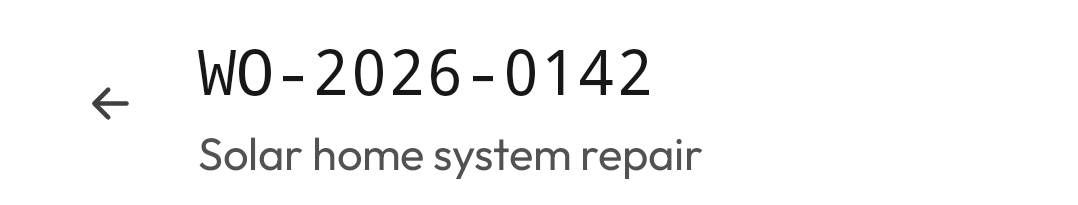
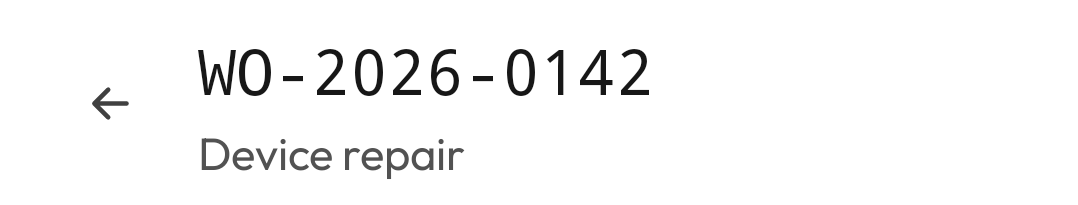
Fix start-aligned tab indicator, key-value rows in intrinsic layouts and select-field chevron in RTL
The new color fields on JengaIconButtonColors, JengaChipColors, JengaSegmentedControlColors and JengaTabsColors get defaults, and JengaDropdownMenu drops its width parameter in favour of the modifier.

Changed region(s): [[0.1837, 0.6732, 0.6735, 0.878]]

diff --git a/jenga/src/commonMain/kotlin/io/github/joelkanyi/jenga/component/list/JengaKeyValueRow.kt b/jenga/src/commonMain/kotlin/io/github/joelkanyi/jenga/component/list/JengaKeyValueRow.kt
@@ -2,19 +2,19 @@ package io.github.joelkanyi.jenga.component.list
 
 import androidx.compose.foundation.clickable
 import androidx.compose.foundation.layout.Arrangement
-import androidx.compose.foundation.layout.BoxWithConstraints
+import androidx.compose.foundation.layout.Box
 import androidx.compose.foundation.layout.PaddingValues
 import androidx.compose.foundation.layout.Row
 import androidx.compose.foundation.layout.defaultMinSize
 import androidx.compose.foundation.layout.fillMaxWidth
 import androidx.compose.foundation.layout.padding
-import androidx.compose.foundation.layout.widthIn
 import androidx.compose.runtime.Composable
 import androidx.compose.runtime.CompositionLocalProvider
 import androidx.compose.runtime.Immutable
 import androidx.compose.ui.Alignment
 import androidx.compose.ui.Modifier
 import androidx.compose.ui.graphics.Color
+import androidx.compose.ui.layout.layout
 import androidx.compose.ui.semantics.Role
 import androidx.compose.ui.text.TextStyle
 import androidx.compose.ui.text.font.FontWeight
@@ -135,7 +135,7 @@ public fun JengaKeyValueRow(
     val bold = TextStyle(fontWeight = FontWeight.Bold)
     val labelStyle = JengaTheme.typography.bodyMedium.let { if (isTotal) it.merge(bold) else it }
     val rowMinHeight = if (onClick != null) maxOf(minHeight, JengaTheme.sizing.minTouchTarget) else minHeight
-    BoxWithConstraints(
+    Box(
         modifier = modifier
             .fillMaxWidth()
             .then(if (onClick != null) Modifier.clickable(role = Role.Button, onClick = onClick) else Modifier)
@@ -143,7 +143,6 @@ public fun JengaKeyValueRow(
             .padding(contentPadding),
         contentAlignment = Alignment.CenterStart,
     ) {
-        val valueMaxWidth = maxWidth * valueMaxWidthFraction
         Row(
             modifier = Modifier.fillMaxWidth(),
             verticalAlignment = Alignment.Top,
@@ -157,7 +156,11 @@ public fun JengaKeyValueRow(
             )
             JengaText(
                 text = value,
-                modifier = Modifier.widthIn(max = valueMaxWidth),
+                modifier = Modifier.layout { measurable, constraints ->
+                    val cap = (constraints.maxWidth * valueMaxWidthFraction).toInt()
+                    val placeable = measurable.measure(constraints.copy(maxWidth = cap.coerceAtLeast(constraints.minWidth)))
+                    layout(placeable.width, placeable.height) { placeable.place(0, 0) }
+                },
                 style = if (isTotal) valueStyle.merge(bold) else valueStyle,
                 color = colors.value,
                 textAlign = TextAlign.End,

diff --git a/jenga/src/commonMain/kotlin/io/github/joelkanyi/jenga/component/tabs/JengaTabs.kt b/jenga/src/commonMain/kotlin/io/github/joelkanyi/jenga/component/tabs/JengaTabs.kt
@@ -48,7 +48,7 @@ public class JengaTabsColors(
     public val unselectedContent: Color,
     public val indicator: Color,
     public val divider: Color,
-    public val dot: Color,
+    public val dot: Color = indicator,
 ) {
     public fun copy(
         selectedContent: Color = this.selectedContent,
@@ -149,11 +149,20 @@ public fun JengaTabs(
         ) {
             tabs.forEachIndexed { index, title ->
                 val selected = index == selectedIndex
+                val indicator = when {
+                    selected -> colors.indicator
+                    fill -> colors.divider
+                    else -> Color.Transparent
+                }
                 Box(
                     modifier = Modifier
                         .then(if (fill) Modifier.weight(1f) else Modifier)
                         .selectable(selected = selected, role = Role.Tab, onClick = { onSelect(index) })
-                        .defaultMinSize(minHeight = minHeight),
+                        .defaultMinSize(minHeight = minHeight)
+                        .drawBehind {
+                            val thickness = JengaTabsDefaults.IndicatorThickness.toPx()
+                            drawRect(indicator, Offset(0f, size.height - thickness), Size(size.width, thickness))
+                        },
                     contentAlignment = Alignment.Center,
                 ) {
                     Row(
@@ -181,18 +190,6 @@ public fun JengaTabs(
                             )
                         }
                     }
-                    val indicator = when {
-                        selected -> colors.indicator
-                        fill -> colors.divider
-                        else -> Color.Transparent
-                    }
-                    Box(
-                        modifier = Modifier
-                            .align(Alignment.BottomCenter)
-                            .fillMaxWidth()
-                            .height(JengaTabsDefaults.IndicatorThickness)
-                            .background(indicator),
-                    )
                 }
             }
         }

diff --git a/jenga/src/commonMain/kotlin/io/github/joelkanyi/jenga/component/menu/JengaDropdownMenu.kt b/jenga/src/commonMain/kotlin/io/github/joelkanyi/jenga/component/menu/JengaDropdownMenu.kt
@@ -10,7 +10,6 @@ import androidx.compose.foundation.layout.Row
 import androidx.compose.foundation.layout.defaultMinSize
 import androidx.compose.foundation.layout.fillMaxWidth
 import androidx.compose.foundation.layout.padding
-import androidx.compose.foundation.layout.width
 import androidx.compose.material3.DropdownMenu
 import androidx.compose.material3.MenuDefaults
 import androidx.compose.runtime.Composable
@@ -112,7 +111,6 @@ public object JengaDropdownMenuDefaults {
  * @param onDismissRequest called when the menu should close (outside tap / back).
  * @param modifier the [Modifier] for the menu surface.
  * @param offset offset from the anchor.
- * @param width fixed menu width; unspecified sizes the menu to its items.
  * @param shape the menu shape.
  * @param border optional outline around the menu.
  * @param shadowElevation the menu shadow elevation.
@@ -124,7 +122,6 @@ public fun JengaDropdownMenu(
     onDismissRequest: () -> Unit,
     modifier: Modifier = Modifier,
     offset: DpOffset = DpOffset(0.dp, 0.dp),
-    width: Dp = Dp.Unspecified,
     shape: Shape = JengaDropdownMenuDefaults.shape,
     border: BorderStroke? = null,
     shadowElevation: Dp = JengaDropdownMenuDefaults.ShadowElevation,
@@ -133,7 +130,7 @@ public fun JengaDropdownMenu(
     DropdownMenu(
         expanded = expanded,
         onDismissRequest = onDismissRequest,
-        modifier = if (width != Dp.Unspecified) modifier.width(width) else modifier,
+        modifier = modifier,
         offset = offset,
         shape = shape,
         containerColor = JengaTheme.colors.surface,

diff --git a/jenga/src/commonMain/kotlin/io/github/joelkanyi/jenga/component/textfield/JengaSelectField.kt b/jenga/src/commonMain/kotlin/io/github/joelkanyi/jenga/component/textfield/JengaSelectField.kt
@@ -16,7 +16,6 @@ import androidx.compose.runtime.CompositionLocalProvider
 import androidx.compose.ui.Alignment
 import androidx.compose.ui.Modifier
 import androidx.compose.ui.draw.clip
-import androidx.compose.ui.draw.rotate
 import androidx.compose.ui.graphics.Shape
 import androidx.compose.ui.semantics.Role
 import androidx.compose.ui.text.TextStyle
@@ -24,6 +23,7 @@ import androidx.compose.ui.text.style.TextOverflow
 import androidx.compose.ui.unit.Dp
 import androidx.compose.ui.unit.dp
 import io.github.joelkanyi.jenga.component.icon.JengaIcon
+import io.github.joelkanyi.jenga.component.icon.JengaIcons
 import io.github.joelkanyi.jenga.component.text.JengaText
 import io.github.joelkanyi.jenga.theme.JengaTheme
 import io.github.joelkanyi.jenga.theme.LocalJengaContentColor
@@ -64,7 +64,7 @@ public fun JengaSelectField(
     enabled: Boolean = true,
     leadingIcon: (@Composable () -> Unit)? = null,
     trailingIcon: @Composable () -> Unit = {
-        JengaIcon(JengaTheme.icons.chevron, contentDescription = null, modifier = Modifier.rotate(90f))
+        JengaIcon(JengaIcons.ChevronDown, contentDescription = null)
     },
     shape: Shape = JengaTextFieldDefaults.shape,
     colors: JengaTextFieldColors = JengaTextFieldDefaults.colors(),

diff --git a/jenga/src/androidMain/kotlin/io/github/joelkanyi/jenga/component/scaffold/JengaTopAppBarPreviews.kt b/jenga/src/androidMain/kotlin/io/github/joelkanyi/jenga/component/scaffold/JengaTopAppBarPreviews.kt
@@ -33,7 +33,7 @@ internal fun JengaTopAppBarSlotPreview() {
             title = {
                 Column {
                     JengaText("WO-2026-0142", style = JengaTheme.typography.mono)
-                    JengaText("Solar home system repair", style = JengaTheme.typography.caption, color = JengaTheme.colors.textMuted)
+                    JengaText("Device repair", style = JengaTheme.typography.caption, color = JengaTheme.colors.textMuted)
                 }
             },
             navigationIcon = {

diff --git a/jenga/src/commonMain/kotlin/io/github/joelkanyi/jenga/component/tabs/JengaSegmentedControl.kt b/jenga/src/commonMain/kotlin/io/github/joelkanyi/jenga/component/tabs/JengaSegmentedControl.kt
@@ -33,7 +33,7 @@ public class JengaSegmentedControlColors(
     public val selectedSegment: Color,
     public val selectedContent: Color,
     public val unselectedContent: Color,
-    public val disabledContent: Color,
+    public val disabledContent: Color = unselectedContent.copy(alpha = 0.38f),
 ) {
     public fun copy(
         track: Color = this.track,

diff --git a/jenga/src/commonMain/kotlin/io/github/joelkanyi/jenga/component/chip/JengaChip.kt b/jenga/src/commonMain/kotlin/io/github/joelkanyi/jenga/component/chip/JengaChip.kt
@@ -37,7 +37,7 @@ public class JengaChipColors(
     public val unselectedBorder: Color,
     public val disabledContainer: Color,
     public val disabledContent: Color,
-    public val selectedBorder: Color,
+    public val selectedBorder: Color = Color.Transparent,
 ) {
     public fun copy(
         selectedContainer: Color = this.selectedContainer,

diff --git a/jenga/src/commonMain/kotlin/io/github/joelkanyi/jenga/component/button/JengaIconButton.kt b/jenga/src/commonMain/kotlin/io/github/joelkanyi/jenga/component/button/JengaIconButton.kt
@@ -50,7 +50,7 @@ public class JengaIconButtonColors(
     public val content: Color,
     public val disabledContainer: Color,
     public val disabledContent: Color,
-    public val border: Color,
+    public val border: Color = Color.Transparent,
 ) {
     public fun copy(
         container: Color = this.container,
